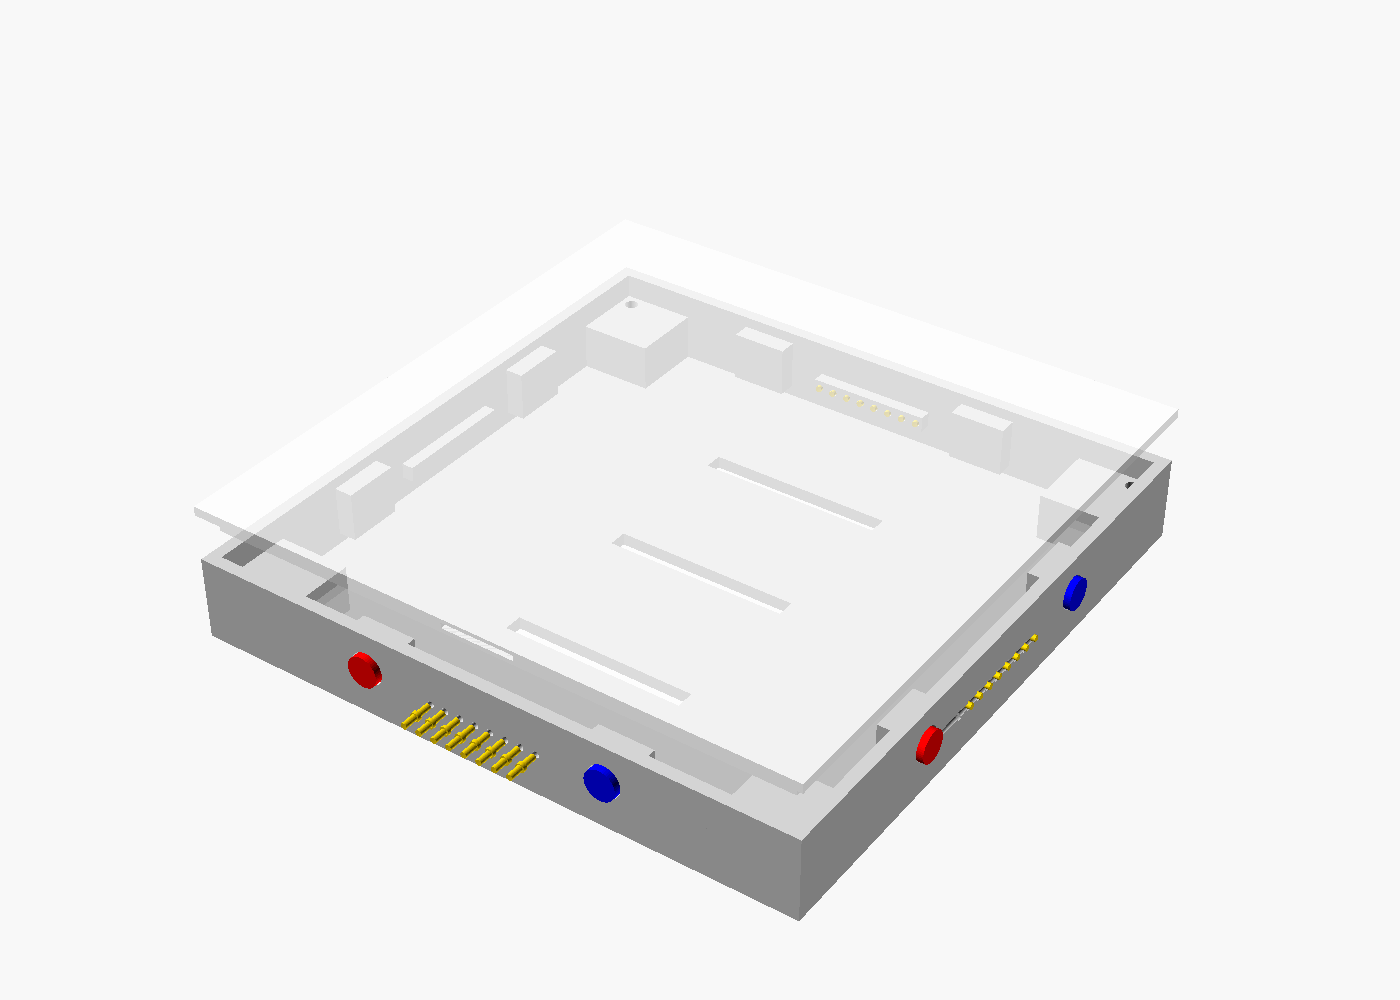
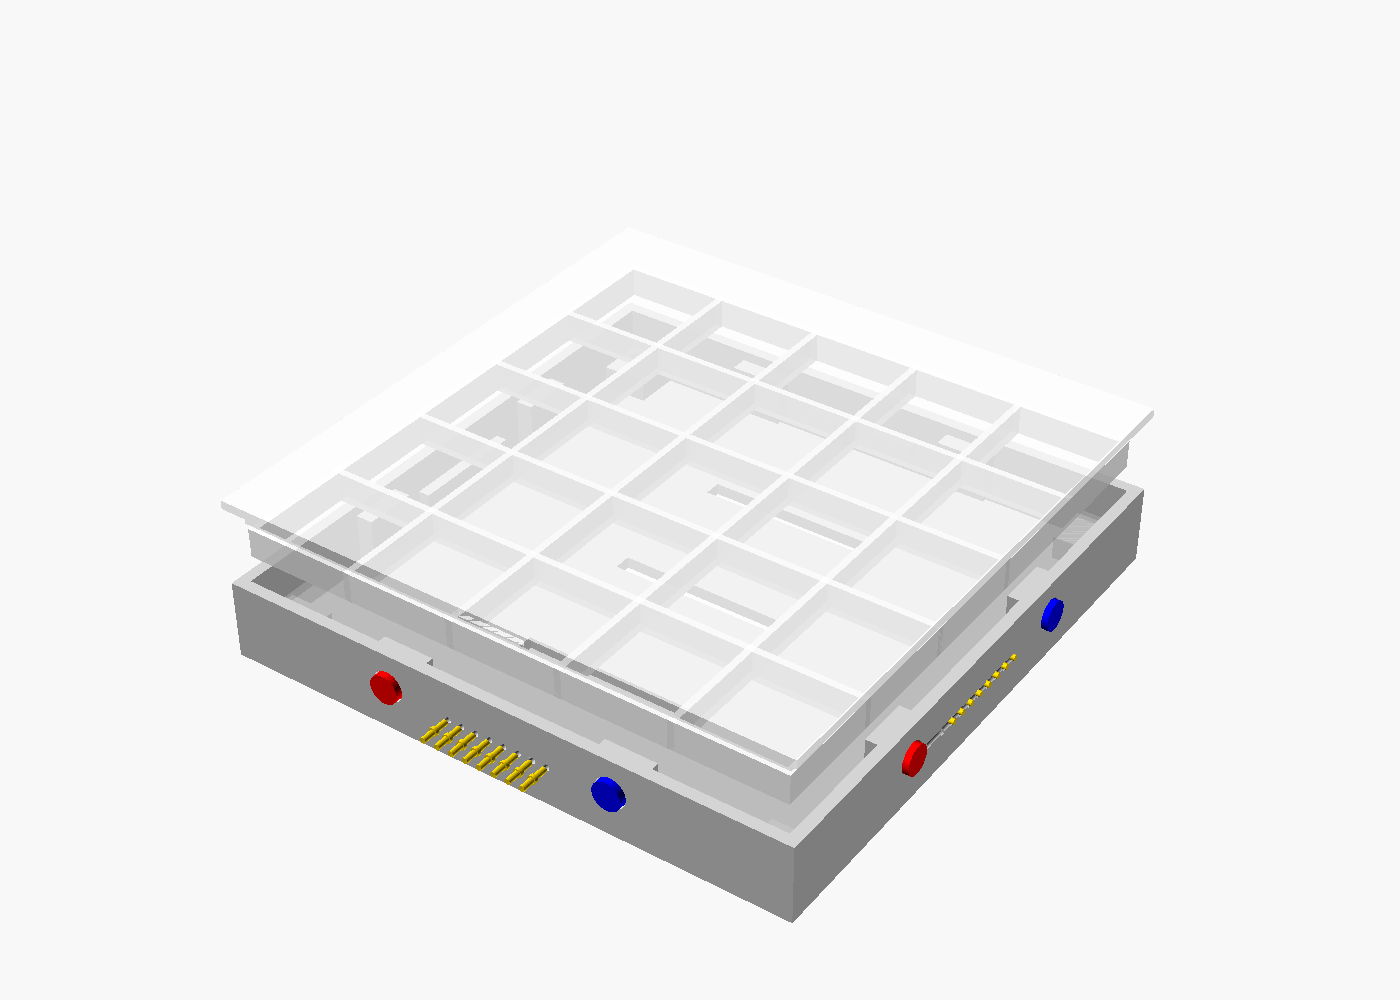
Fit analysis: layout plan, corner-boss fix, optional light guide
Corner bosses now stop at z = PCB_BOTTOM_Z (= 6 mm) instead of
protruding through the PCB plane, so the PCB sits flat on top of
them without requiring corner cutouts — all 25 LED positions in
the 5x5 grid are preserved. Boss dimension reduced from 14 to 10 mm
to open interior space and let the M2 screw sit 2 mm from the PCB
corner (was 1 mm — too close).

Adds an optional third printable part: a 5x5 pixel-grid light
guide that sits between the PCB and the diffuser for a distinct-
pixel look. No retention features; held by PCB below + diffuser
rim above. Core 2-part design (frame + diffuser) unchanged.

hardware/tile/layout-plan.md documents the z-stack, PCB outline
with magnet/pogo notches, component placement zoning, and the
one non-obvious BOM constraint: the 4 mm back-side space rules
out radial electrolytics — the 47 uF/35 V bulk cap must be
tantalum or ceramic.

diff --git a/hardware/tile/layout-plan.md b/hardware/tile/layout-plan.md
@@ -1,0 +1,187 @@
+# Tile PCB layout plan
+
+How the LED, MCU, buck, transceiver, and supporting components fit inside the 100 × 100 × 15 mm enclosure. Companion to [`../../mechanical/openscad/tile.scad`](../../mechanical/openscad/tile.scad) and [`../../docs/architecture.md`](../../docs/architecture.md). Drives the KiCad board outline before the first schematic spin.
+
+## Space budget — what's actually available
+
+### Z stack (15 mm total, 11.5 mm interior)
+
+```
+  z = 15.0 ────────── diffuser front face ──────────
+  z = 13.5 ────────── frame walls top / diffuser back
+                 ↑
+                 │ 4.4 mm diffusion gap (air)
+                 ↓
+  z =  9.1 ────────── LED top (SK6812 body 1.5 mm above PCB)
+  z =  7.6 ────────── PCB top face ──── [ 25 × SK6812, pogo-pin pads ]
+  z =  6.0 ────────── PCB bottom face ── [ MCU, buck, transceiver, passives ]
+                 ↑
+                 │ 4.0 mm back-side component space
+                 ↓
+  z =  2.0 ────────── back inner face
+  z =  0.0 ────────── back outer face (ventilation slots)
+```
+
+**Tight constraint: the 4 mm back-side space.** Any component taller than 4 mm doesn't fit. This rules out standard radial electrolytic caps (~11 mm tall) and some through-hole inductors. See [BOM constraints](#component-height-constraints) below.
+
+### Plan view — 100 × 100 mm interior features
+
+Features that cut into the 96 × 96 mm usable interior footprint:
+
+| Feature | Footprint | Qty | Area lost | Notes |
+|---|---|---:|---:|---|
+| Corner bosses | 10 × 10 mm | 4 | 400 mm² | Screw bosses, stop at z = 6 (under PCB) |
+| Edge magnet bosses | 9 × 3 mm | 8 | 216 mm² | 2 per edge × 4 edges |
+| Pogo pin retainers | 22 × 2 mm | 4 | 176 mm² | 1 strip per edge, centred |
+| **Total intrusion** | | | **792 mm²** | out of 9 216 mm² interior |
+
+The PCB must work around these features or notch around them.
+
+## PCB outline
+
+Recommended outline: **94 × 94 mm with edge notches** for the magnet and pogo-pin bosses. Corner bosses stop at the PCB bottom face (z = 6) so the PCB sits flat on top of them — **no corner cutouts required** (all 25 LED positions preserved).
+
+Plan view (not to scale):
+
+```
+            -Y edge
+            ▼
+  ┌──────────────────────────────┐ ← 100 mm tile outer edge
+  │┌───┐    ┌─┐    ┌──┐    ┌─┐   ┌───┐│
+  ││░░░│    │ │    │░░│    │ │   │░░░││
+  │└───┘    └─┘    └──┘    └─┘   └───┘│   ← ░ = PCB-absent zones
+  │                                    │     (notch or cutout at edges;
+  │     ┌──────────────────────┐       │      corner bosses under PCB)
+  │     │                      │       │
+ -X│    │   PCB 94 × 94 mm     │      +X
+ ──│    │                      │ ──────│
+ edge   │   (pogo strip cuts   │       edge
+  │     │    a 22 × 2 mm notch │       │
+  │     │    at each edge; each│       │
+  │     │    magnet boss cuts  │       │
+  │     │    a 10 × 3 mm notch)│       │
+  │     └──────────────────────┘       │
+  │┌───┐    ┌─┐    ┌──┐    ┌─┐   ┌───┐│
+  ││░░░│    │ │    │░░│    │ │   │░░░││
+  │└───┘    └─┘    └──┘    └─┘   └───┘│
+  └──────────────────────────────┘
+            ▲
+            +Y edge
+```
+
+Notch dimensions (all cut inward from the PCB edge):
+
+- **Pogo-pin strip notch** (1 per edge, centred): 22 mm wide × 2 mm deep.
+- **Magnet-boss notch** (2 per edge, offset ±20 mm from edge midpoint): 10 mm wide × 3 mm deep.
+
+With those notches the PCB keeps ≈ 94 × 94 mm minus ~1060 mm² of notches = **≈ 7780 mm² usable**. Plenty for a 25-LED array + supporting circuitry.
+
+## LED grid placement
+
+Twenty-five SK6812 RGBW 5050 packages at 20 mm pitch, centred in the tile:
+
+- LED centres: tile-local (10, 30, 50, 70, 90) in both X and Y.
+- In PCB-local coordinates (PCB origin at tile (3, 3)): (7, 27, 47, 67, 87).
+- All 25 positions fall safely within the PCB after notches (notches are shallow and away from the LED grid — closest LED at (7, 7) is > 4 mm clear of the nearest corner boss).
+
+Data chain: standard WS2812-style serpentine (row 0 left→right, row 1 right→left, etc.). Data input at LED (7, 7) from the MCU; data output from LED (87, 87) is terminated on a test pad (or left floating).
+
+## Back-side component placement
+
+All control electronics go on the **bottom face of the PCB** (opposite the LEDs), in the 4 mm space between the PCB and the back wall.
+
+Recommended zoning:
+
+```
+   Bottom face of PCB (view looking through the back):
+
+  ┌──────────────────────────────────────────────────┐
+  │ [buck module or discrete buck circuit]            │
+  │  MP1584 + L + Cs, ~17 × 11 mm or ~20 × 15 mm     │
+  │                                                  │
+  │           ┌─────────┐                            │
+  │ [MCU]     │  power  │       [MAX485 transceiver]│
+  │ CH32V003  │  tap    │       SOIC-8, ~4 × 5 mm   │
+  │ ~5 × 6 mm │  region │                            │
+  │                                                  │
+  │ [TVS][polyfuse][rev-pol MOSFET][bulk cap]        │
+  │                                                  │
+  │ [0603 passives scattered throughout]             │
+  └──────────────────────────────────────────────────┘
+```
+
+Total component area: roughly 400 mm² of dense SMT. Plenty of PCB room. Thermal spreading is via copper pours.
+
+## Component height constraints
+
+The 4 mm back-side space is the limiting dimension. Substitutions vs. the original BOM where needed:
+
+| Component | Standard variant | Height | Fits in 4 mm? | Action |
+|---|---|---:|:---:|---|
+| CH32V003 TSSOP-20 | | 1.2 mm | ✅ | |
+| MAX485 SOIC-8 | | 1.75 mm | ✅ | |
+| MP1584EN TSOT-23-8 (discrete circuit) | | 1.0 mm + L 2.5 mm + caps | ✅ | Discrete is safer than module |
+| MP1584EN module (pre-built) | | ~4 mm | ⚠ marginal | Use only for bench; go discrete on PCB |
+| **47 µF/35 V electrolytic (radial)** | | ~11 mm | ❌ | **Substitute:** 47 µF/35 V tantalum 1411 (4 × 4.5 × 3.8 mm) or 2× 22 µF/35 V ceramic 1210 |
+| 22 µH shielded inductor | | 2–3 mm | ✅ | SMD shielded types |
+| SS34 Schottky SMA | | 1 mm | ✅ | |
+| SMBJ28CA TVS SMB | | 2.4 mm | ✅ | |
+| Polyfuse 1812 | | 0.9 mm | ✅ | |
+| AO3401 P-MOSFET SOT-23 | | 1.1 mm | ✅ | |
+| 0603 passives | | 0.8 mm | ✅ | |
+
+**Headline substitution**: the input bulk cap (47 µF/35 V) must be a tantalum or a ceramic bank; a radial electrolytic will not fit.
+
+## LEDs are not strips
+
+Individual SMD SK6812 5050 parts placed directly on the tile PCB, not a flexible strip. Three reasons:
+
+1. **Pitch mismatch.** 60 LED/m strip has 16.7 mm pitch; our grid needs 20 mm. Re-cutting and re-wiring a strip to 25 segments is fragile and time-consuming.
+2. **Fewer parts, fewer joints.** The PCB is already being made for the MCU and supporting circuitry. Placing 25 more LEDs on the same board is near-free at JLCPCB (~1 ¢ per placement).
+3. **Thickness.** Strip form factor adds ~1 mm for the strip PCB plus adhesive plus any sleeving. The SMD LEDs sit flat on our board with no extra stack-up.
+
+If you ever want to adapt the design to strips, the control electronics would need to split onto a separate small MCU board at one end of the strip run.
+
+## Optional light guide
+
+A third printable part — a 5 × 5 pixel-grid lattice — can be printed separately and dropped into the tile between the PCB and the diffuser. With it, each LED has its own 20 × 20 mm chamber with reflective walls, producing sharp distinct pixels. Without it, light blends smoothly across the diffuser.
+
+Specs (see [`../../mechanical/openscad/tile.scad`](../../mechanical/openscad/tile.scad) — `RENDER = "light_guide"`):
+
+- 5 × 5 grid of 20 × 20 mm cells
+- Wall thickness 1.2 mm, wall height 5 mm
+- Outer footprint ≈ 95 × 95 mm (sits inside the frame opening with 0.4 mm per-side clearance)
+- Material: white PETG or PLA (reflective)
+- No retention features — held in place by the PCB below and the diffuser rim above
+- Swappable without disassembling the frame: pop the diffuser, drop the guide in, re-seat the diffuser
+
+Print orientation: flat. Walls print as tall thin columns; use 2–3 perimeters for wall strength.
+
+## Routing summary
+
+High-level PCB wiring plan for the v1 (linear-chain) variant:
+
+| Net | Where | Notes |
+|---|---|---|
+| `V+` (24 V) | From +X and −X edge connectors (pin 2 and pin 7) → common net → local buck input | Tie +Y and −Y V+ pads to the same net for v2 compatibility |
+| `GND` | From all four edge connectors (pins 1 and 8) → common ground plane | Thick copper pour on inner layers |
+| `5V` (local) | Buck output → MCU, MAX485, and the 25-LED array | Local to this tile; does not leave |
+| `BUS_A` / `BUS_B` | +X edge (pins 3, 6 and 4, 5) ↔ MAX485 A/B ↔ −X edge | +Y and −Y bus pads left unconnected in v1 |
+| `LED_DATA` | MCU PA1 → 330 Ω series R → DIN of first LED → DOUT→DIN chain through all 25 → final DOUT to test pad | Serpentine route |
+| `UART_TX` / `UART_RX` / `DE` | MCU USART1 + one GPIO → MAX485 control pins | Keep short |
+
+## Constraints summary (for the PCB designer)
+
+- **Board outline:** 94 × 94 mm with 4 × pogo-pin notches (22 × 2 mm) and 8 × magnet-boss notches (10 × 3 mm). No corner cutouts needed.
+- **Corner screw holes:** 4 × M2 through-hole at tile-local (5, 5), (95, 5), (5, 95), (95, 95) → PCB-local (2, 2), (92, 2), (2, 92), (92, 92). Hole OD 2.2 mm.
+- **LED grid:** 25 × SK6812 5050, front side, 20 mm pitch, centred at PCB-local (7, 27, 47, 67, 87).
+- **Edge pads:** 8 contact pads per populated edge at 2.54 mm pitch, aligned with pogo pin positions. Gold-plated for low contact resistance. On the PCB **top face** (LED side) or as edge castellations — depends on pogo pin orientation choice, still under review.
+- **Max component height back-side:** 4 mm. Use low-profile SMD throughout; tantalum or ceramic bulk caps only.
+- **Ground:** heavy inner-layer pour. At least 2 oz copper on inner layers.
+- **Thermal:** LED array dissipates up to ~7.5 W at full white. Use large back-side copper pours connected to LED GND pads; leverage the back-face vent slots in the enclosure for convection.
+
+## Open questions for the PCB design stage
+
+- **Pogo pin mounting:** pins mounted to the frame (currently modelled) or soldered to PCB edge castellations? Choice affects PCB edge-pad vs. edge-castellation design.
+- **Power injection:** do we need a dedicated tile variant with a screw-terminal 24 V input for the head of a long chain? Or inject via a custom master-adjacent tile?
+- **Firmware update path:** expose SWIO via a 3-pin test pad on the back of the PCB, accessible through the back-face vent area with a pogo jig. Needs space reservation.